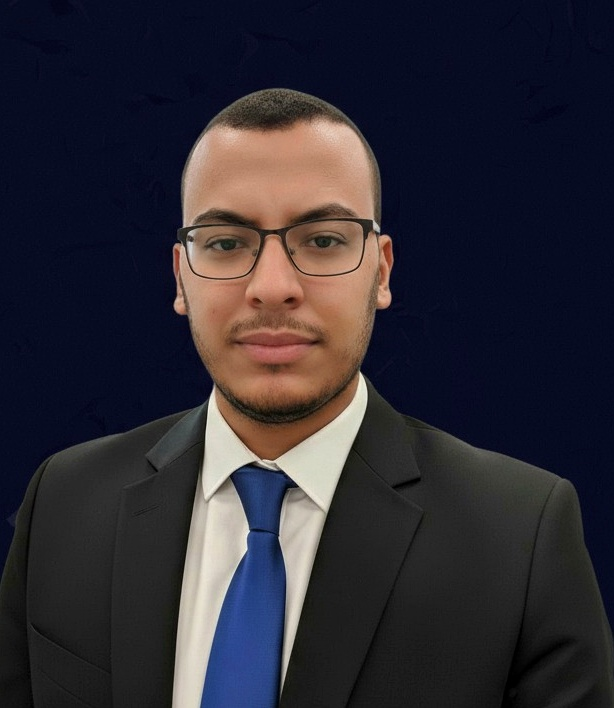
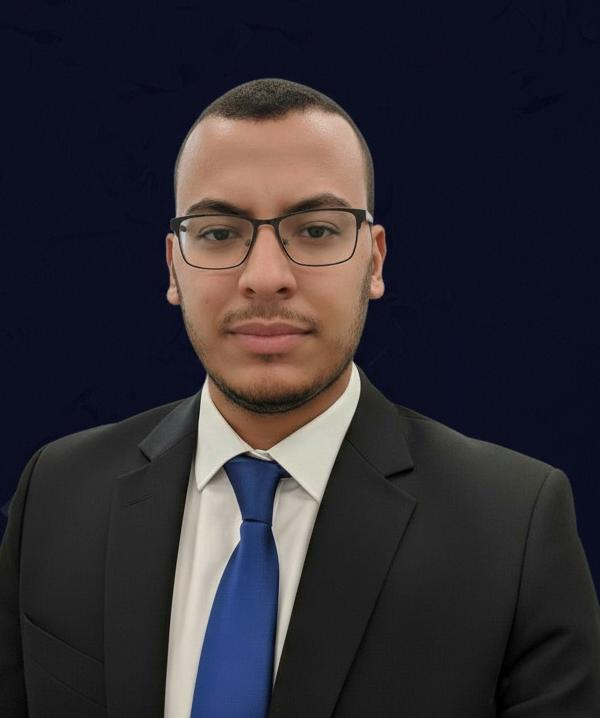
fix: perfectly proportioned profile portrait frame with full suit, headroom and fixed 4:5 aspect ratio

Changed region(s): [[0.0, 0.0932, 1.0, 1.0], [0.87, 0.9011, 0.93, 0.9322], [0.63, 0.6525, 0.69, 0.6836]]

diff --git a/style.css b/style.css
@@ -205,6 +205,9 @@ body{
 .about .content .col-left{
   position: relative;
   width: 45%;
+  display: flex;
+  justify-content: center;
+  align-items: center;
 }
 
 .about .content .col-right{
@@ -215,30 +218,29 @@ body{
 .about .content .col-left .img-card{
   position: relative;
   width: 100%;
-  min-height: 480px;
-  border-radius: 16px;
+  max-width: 380px;
+  height: 455px;
+  border-radius: 18px;
   overflow: hidden;
-  box-shadow: 0 20px 40px rgba(58, 108, 244, 0.25), 0 5px 15px rgba(0, 0, 0, 0.2);
-  border: 3px solid rgba(58, 108, 244, 0.4);
+  box-shadow: 0 20px 40px rgba(0, 0, 0, 0.25), 0 0 0 2px rgba(58, 108, 244, 0.35);
+  background: #0b1120;
   transition: all 0.4s ease;
+  margin: 0 auto;
 }
 
 .about .content .col-left .img-card:hover{
   transform: translateY(-6px);
-  box-shadow: 0 25px 50px rgba(58, 108, 244, 0.35);
-  border-color: #3a6cf4;
+  box-shadow: 0 25px 50px rgba(58, 108, 244, 0.35), 0 0 0 2px #3a6cf4;
 }
 
 .about .content .col-left .img-card img{
-  position: absolute;
-  top: 0;
-  left: 0;
   width: 100%;
   height: 100%;
   object-fit: cover;
-  object-position: top center;
-  border-radius: 14px;
-  transition: transform 0.5s ease;
+  object-position: center top;
+  border-radius: 16px;
+  display: block;
+  transition: transform 0.4s ease;
 }
 
 .about .content .col-left .img-card:hover img{
